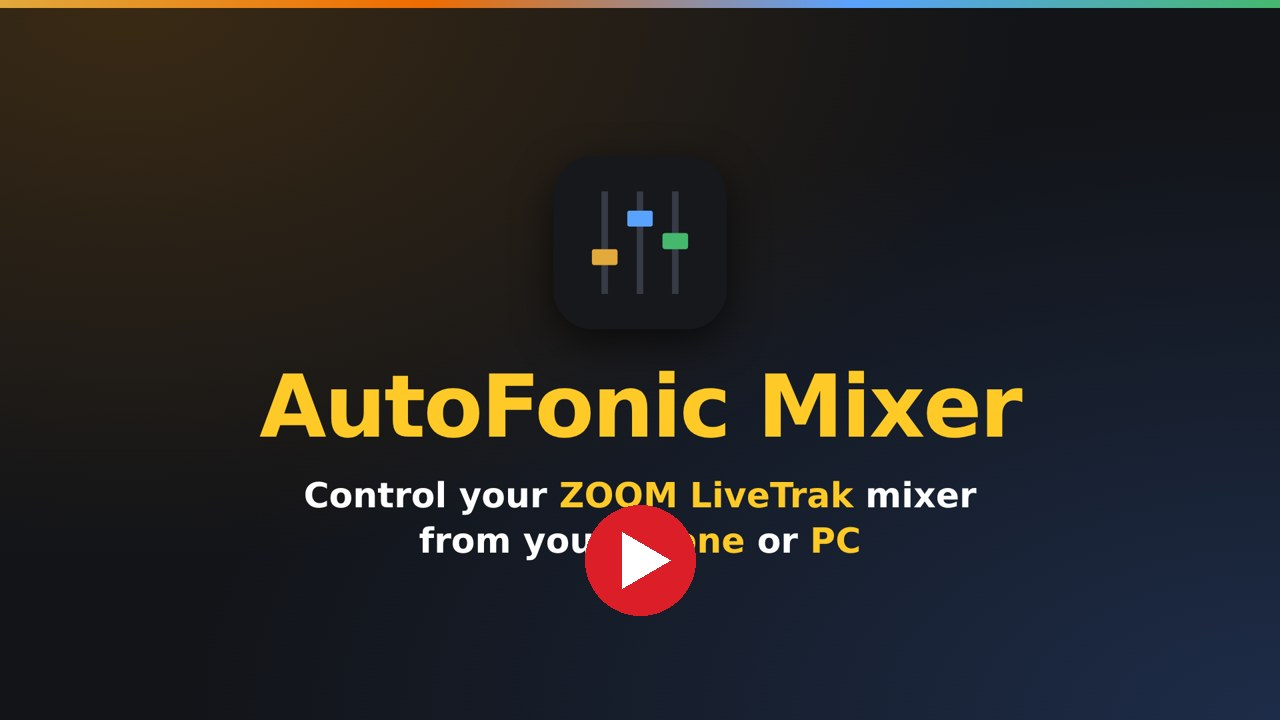
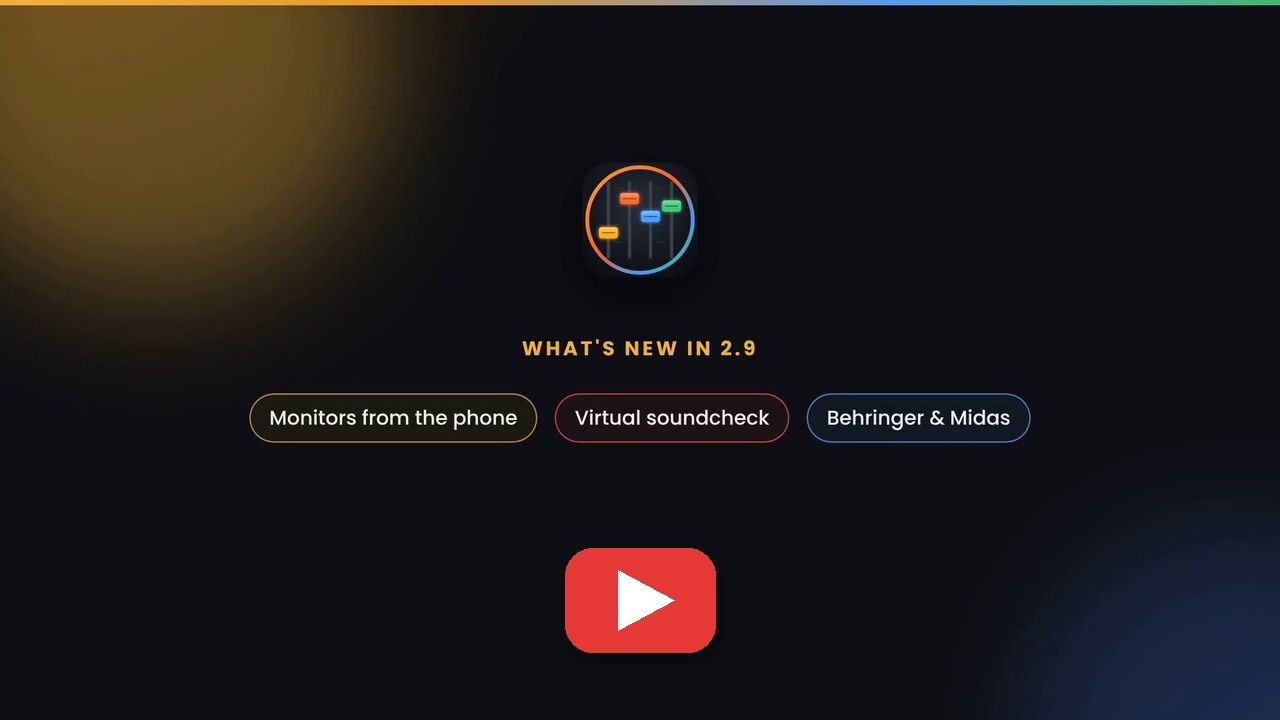
Video 2.9 (EN/IT) in README and site: new links, new thumbnails, Watch the video button
Claude-Session: https://claude.ai/code/session_01U8W5CNsYKxYqECJ5q9Evsb

diff --git a/docs/it/index.html b/docs/it/index.html
@@ -64,6 +64,7 @@ small{color:var(--muted)}a{color:var(--blue)}
 <a class="btn g" href="https://play.google.com/store/apps/details?id=com.autofonic.mixer">Disponibile su Google Play</a>
 <a class="btn" href="https://github.com/francescorizzo-cyber/autofonic-mixer/releases/latest/download/AutoFonicMixer-DEMO-windows-x64-setup.exe">Scarica per Windows</a>
 <a class="btn o" href="https://github.com/francescorizzo-cyber/autofonic-mixer#scarica">Linux · Mac · tutti i download</a>
+<a class="btn" style="background:#e53935;color:#fff" href="https://youtu.be/gXs7_-YmX_0">▶ Guarda il video (1 min)</a>
 </div>
 </header>
 

diff --git a/docs/index.html b/docs/index.html
@@ -78,6 +78,7 @@ small{color:var(--muted)}a{color:var(--blue)}
 <a class="btn g" href="https://play.google.com/store/apps/details?id=com.autofonic.mixer">Get it on Google Play</a>
 <a class="btn" href="https://github.com/francescorizzo-cyber/autofonic-mixer/releases/latest/download/AutoFonicMixer-DEMO-windows-x64-setup.exe">Download for Windows</a>
 <a class="btn o" href="https://github.com/francescorizzo-cyber/autofonic-mixer#download">Linux · Mac · all downloads</a>
+<a class="btn" style="background:#e53935;color:#fff" href="https://youtu.be/lcbaCaBh8TQ">▶ Watch the video (1 min)</a>
 </div>
 </header>
 

diff --git a/README.md b/README.md
@@ -8,7 +8,7 @@ from your **PC** (Windows, Linux, Mac) and your **Android phone**
 
 [![Download](https://img.shields.io/badge/⬇_Download-Windows_·_Linux_·_Mac-ffca28?style=for-the-badge)](#download)
 [![Google Play](https://img.shields.io/badge/Google_Play-Android-45b86e?style=for-the-badge&logo=googleplay&logoColor=white)](https://play.google.com/store/apps/details?id=com.autofonic.mixer)
-[![Video](https://img.shields.io/badge/▶_Video-1_minute-e53935?style=for-the-badge&logo=youtube&logoColor=white)](https://youtu.be/BZv4WPJ-NJI)
+[![Video](https://img.shields.io/badge/▶_Video-1_minute-e53935?style=for-the-badge&logo=youtube&logoColor=white)](https://youtu.be/lcbaCaBh8TQ)
 
 *[Italiano più sotto](#italiano)*
 
@@ -151,7 +151,7 @@ Sound check and AI need the **USB cable** (it carries every channel's audio) and
 
 ## ▶ Watch the video
 
-[![Video](immagini/09_video.jpg)](https://youtu.be/BZv4WPJ-NJI)
+[![Video](immagini/09_video.jpg)](https://youtu.be/lcbaCaBh8TQ)
 
 <a id="full-version"></a>
 
@@ -272,7 +272,7 @@ dal **PC** (Windows, Linux, Mac) e dal **telefono Android**
 
 [![Scarica](https://img.shields.io/badge/⬇_Scarica-Windows_·_Linux_·_Mac-ffca28?style=for-the-badge)](#scarica)
 [![Google Play](https://img.shields.io/badge/Google_Play-Android-45b86e?style=for-the-badge&logo=googleplay&logoColor=white)](https://play.google.com/store/apps/details?id=com.autofonic.mixer)
-[![Video](https://img.shields.io/badge/▶_Video-1_minuto-e53935?style=for-the-badge&logo=youtube&logoColor=white)](https://youtu.be/OXLS1chrFMM)
+[![Video](https://img.shields.io/badge/▶_Video-1_minuto-e53935?style=for-the-badge&logo=youtube&logoColor=white)](https://youtu.be/gXs7_-YmX_0)
 
 </div>
 
@@ -398,6 +398,10 @@ Per sound check e AI servono il **cavo USB** (porta l'audio di ogni canale) e, s
 - 🎤 **caccia ai fischi** con il microfono del telefono · 🎸 **accordatore** · 💾 **setup salvati**
 - 🎧 **modalità musicista**: ognuno regola solo la propria spia · 🔗 **canali uniti in stereo** · 🔒 **blocco dei tocchi**
 - 7 giorni di prova completa, poi un solo acquisto
+
+## ▶ Guarda il video
+
+[![Video](immagini/09_video_it.jpg)](https://youtu.be/gXs7_-YmX_0)
 
 <a id="versione-completa"></a>
 
